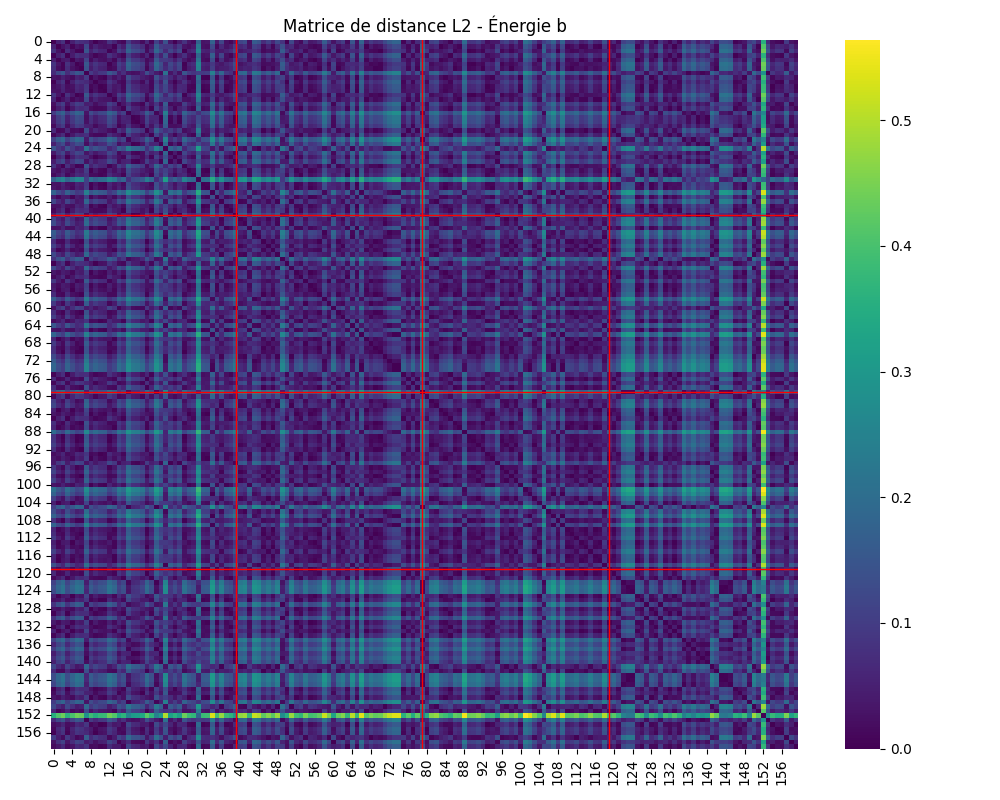
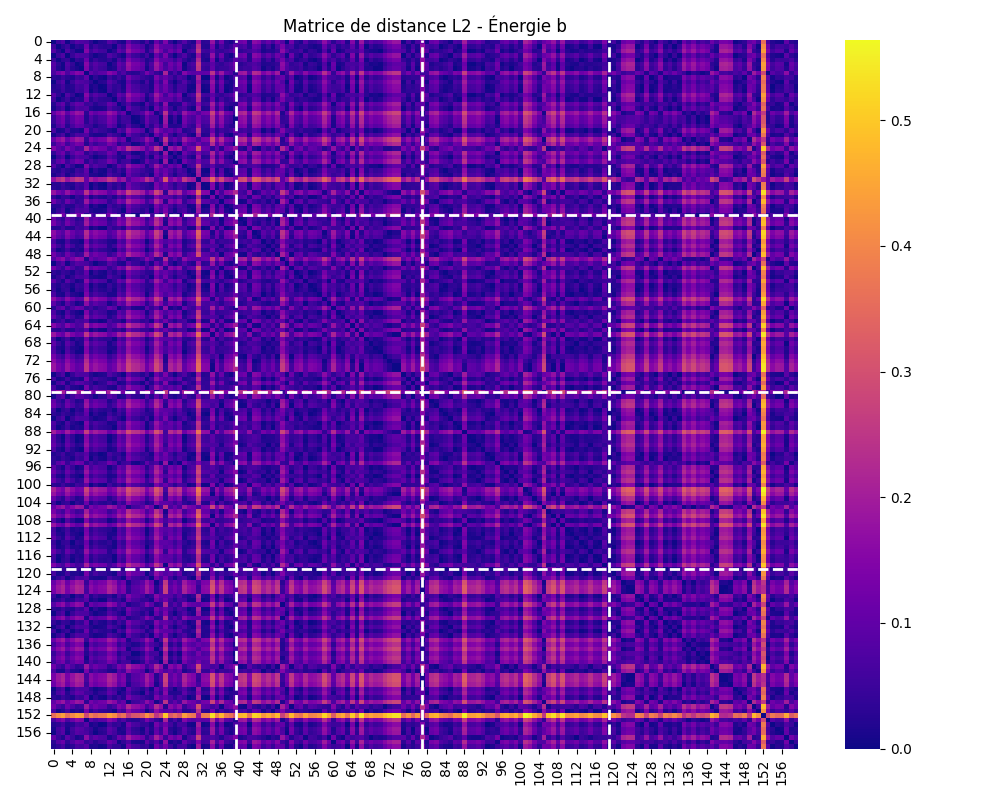
Modification de la colormap pour les matrices de distance

diff --git a/extract_features.py b/extract_features.py
@@ -1,7 +1,12 @@
+import os
+import numpy as np
 import torch
+import seaborn as sns
 import torch.nn.functional as F
 import matplotlib.pyplot as plt
+import matplotlib.pyplot as plt
 from tqdm import tqdm
+from load_database import load_dataset
 
 # Calculer la matrice de co-occurrence pour un canal donné
 def co_occurrence_matrix(channel, distance=1, direction="horizontal"): # Direction : "horizontal" ou "vertical"
@@ -105,11 +110,6 @@ def extract_features(images):
     return torch.stack(features)
 
 def faire_matrices_de_distances():
-    import os
-    import numpy as np
-    import seaborn as sns
-    import matplotlib.pyplot as plt
-    from load_database import load_dataset
     from utils import load_or_compute_features
     
     # Créer le dossier pour stocker les matrices de distances s'il n'existe pas
@@ -169,13 +169,13 @@ def faire_matrices_de_distances():
         sorted_labels = labels_np[sort_idx]
         
         # Créer la heatmap
-        ax = sns.heatmap(sorted_distance_matrix, cmap='viridis')
+        ax = sns.heatmap(sorted_distance_matrix, cmap='plasma')
         
         # Ajouter des lignes pour délimiter les classes
         class_boundaries = np.where(np.diff(sorted_labels) != 0)[0]
         for boundary in class_boundaries:
-            plt.axhline(y=boundary + 0.5, color='red', linestyle='-', linewidth=1)
-            plt.axvline(x=boundary + 0.5, color='red', linestyle='-', linewidth=1)
+            plt.axhline(y=boundary + 0.5, color='white', linestyle='--', linewidth=2)
+            plt.axvline(x=boundary + 0.5, color='white', linestyle='--', linewidth=2)
         
         plt.title(f'Matrice de distance L2 - {title}')
         plt.tight_layout()
